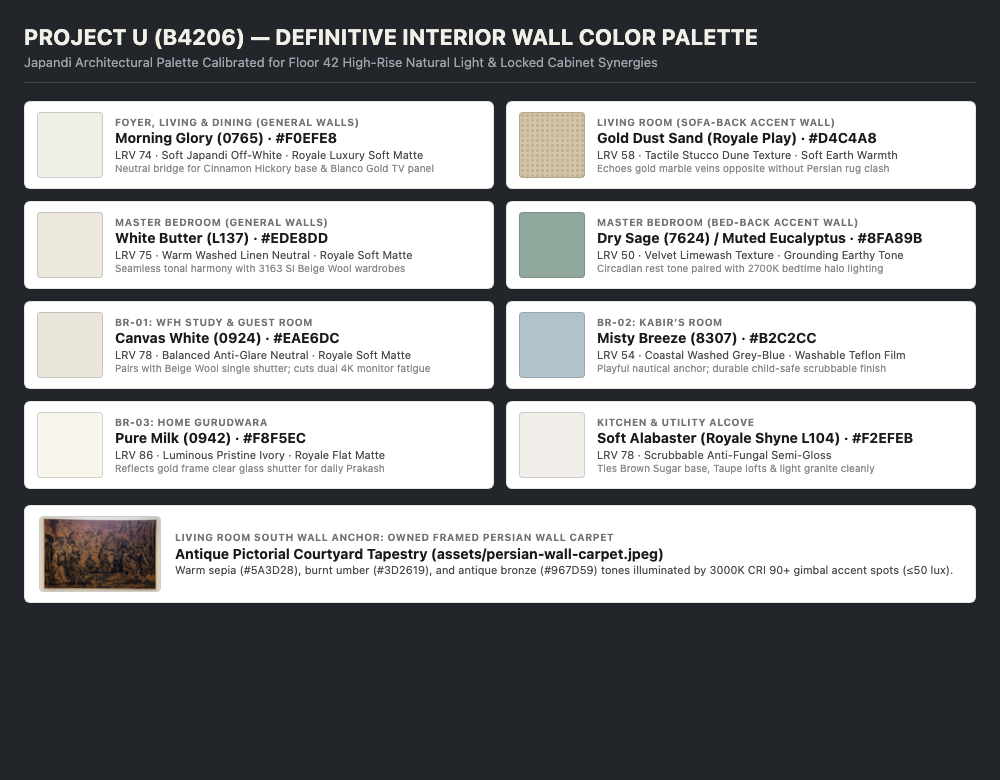
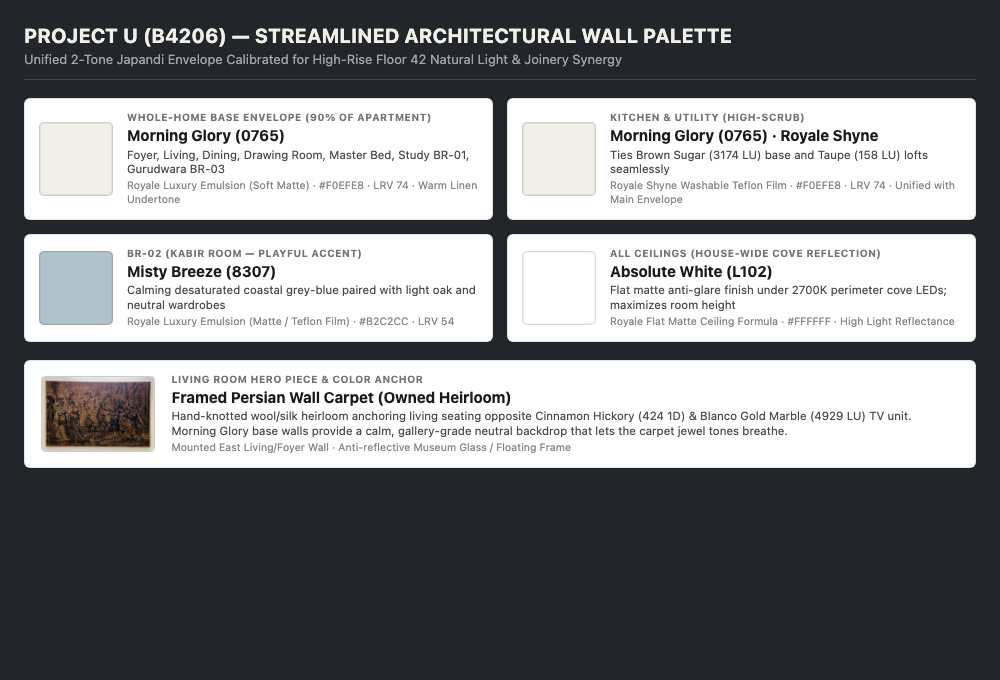
sync: update Project U notes (2026-10-16 23:58:57)

diff --git a/content/u-setup-interiors.md b/content/u-setup-interiors.md
@@ -55,16 +55,9 @@ updated: 2026-10-16
 
 | Room / Zone | Recommended Tone & Code (Asian Paints) | Swatch (Color) | Interior Designer Rationale & Cabinet Synergy |
 | :--- | :--- | :--- | :--- |
-| **Foyer, Living & Dining** | **Morning Glory (0765)** (`#F0EFE8`, LRV 74) | <img src="assets/swatches/swatch-living-dining.png" alt="Morning Glory" width="140"> | Japandi warm neutral off-white. Bridges `424 1D Cinnamon Hickory` base unit and `4929 LU Blanco Gold Marble` TV panel, providing a calm canvas for the owned Persian carpet. |
-| **Living Sofa-Back Accent** | **Gold Dust Sand Texture (Royale Play)** (`#D4C4A8`, LRV 58) | <img src="assets/swatches/swatch-living-sofa-texture.png" alt="Gold Dust Sand" width="140"> | Tactile Dune plaster echoing gold veining of `4929 LU` marble panel across room without clashing with Persian rug. |
-| **Drawing Room (East Wall)** | **Organic Greige / Limewash (8274)** (`#D6CEBE`, LRV 62) | <img src="assets/swatches/swatch-drawing-east.png" alt="Organic Greige" width="140"> | Breathable textured matte plaster/limewash backdrop for art; grounds the seating area opposite the dark wood fluting. |
-| **Drawing Room (West Wall)** | **Charcoal Shadow (8286)** (`#4A4F50`, LRV 12) | <img src="assets/swatches/swatch-drawing-west.png" alt="Charcoal Shadow" width="140"> | Low-reflectance accent panel behind vertical timber slats; absorbs ambient spill around 65" OLED display. |
-| **Master Bedroom (General)** | **White Butter (L137)** (`#EDE8DD`, LRV 75) | <img src="assets/swatches/swatch-master-bed-walls.png" alt="White Butter" width="140"> | Washed linen tone harmonizing tonally with `3163 SI Beige Wool` wardrobes and dresser. |
-| **Master Bedroom (Bed-Back)** | **Dry Sage (7624) / Muted Eucalyptus** (`#8FA89B`, LRV 50) | <img src="assets/swatches/swatch-master-bed.png" alt="Dry Sage" width="140"> | Bed-back texture paint. Earthy grounding tone for circadian rest under 2700K bedtime lighting. |
-| **BR-01 (Study / Guest)** | **Canvas White (0924)** (`#EAE6DC`, LRV 78) | <img src="assets/swatches/swatch-study-br01.png" alt="Canvas White" width="140"> | Balanced anti-glare neutral pairing with `3163 SI Beige Wool` single shutter; cuts dual 4K monitor fatigue. |
-| **BR-02 (Kabir's Room)** | **Misty Breeze (8307)** (`#B2C2CC`, LRV 54) | <img src="assets/swatches/swatch-kabir-br02.png" alt="Misty Breeze" width="140"> | Desaturated coastal grey-blue. Playful nautical anchor paired with light oak; washable Teflon film. |
-| **BR-03 (Home Gurudwara)** | **Pure Milk (0942)** (`#F8F5EC`, LRV 86) | <img src="assets/swatches/swatch-gurudwara-br03.png" alt="Pure Milk" width="140"> | Luminous pristine ivory reflecting gold-framed clear glass shutter for daily Prakash. |
-| **Kitchen & Utility** | **Soft Alabaster (Royale Shyne L104)** (`#F2EFEB`, LRV 78) | <img src="assets/swatches/swatch-kitchen-utility.png" alt="Soft Alabaster" width="140"> | Scrubbable finish tying `3174 LU Brown Sugar` base, `158 LU Taupe` lofts, and light granite cleanly. |
+| **Whole-Home Base Envelope**<br>(Foyer, Living, Dining, Drawing, Master Bed, Study BR-01, Gurudwara BR-03) | **Morning Glory (0765)**<br>(`#F0EFE8`, LRV 74) | <img src="assets/swatches/swatch-living-dining.png" alt="Morning Glory" width="140"> | Primary Japandi neutral canvas. Unifies all social and private spaces, harmonizes with `424 Cinnamon Hickory`, `3163 Beige Wool`, and Persian carpet. Replaces dark accents with continuous light reflection. |
+| **Kitchen & Utility** | **Morning Glory (0765)**<br>(`#F0EFE8`, LRV 74) · Royale Shyne | <img src="assets/swatches/swatch-living-dining.png" alt="Morning Glory" width="140"> | Identical color formula in high-scrub formulation. Cleanly links `3174 Brown Sugar` base and `158 Taupe` lofts without color breaks. |
+| **BR-02 (Kabir's Room)** | **Misty Breeze (8307)**<br>(`#B2C2CC`, LRV 54) | <img src="assets/swatches/swatch-kabir-br02.png" alt="Misty Breeze" width="140"> | Light, desaturated coastal grey-blue. Dedicated playful accent paired with light oak joinery; washable Teflon emulsion. |
 
 ---
 

diff --git a/content/u-setup-networking.md b/content/u-setup-networking.md
@@ -49,9 +49,10 @@ updated: 2026-10-14
   * Aqara Hub M2 handles offline Zigbee child devices independently of Wi-Fi router reboots.
 
 #### 3. Site Touchpoints & Pre-Boarding Protocol
+* **Builder In-Wall Cabling & Panasonic Plates:** Unit B4206 features pre-installed **Panasonic Vision / Roma modular plates** with dual RJ-45 and coaxial TV ports in every room. All drops home-run to the central telecom enclosure near the main distribution board.
 * **Conduit Separation:** Ensure Cat6 network conduit maintains $\ge 200\text{ mm}$ physical separation from high-voltage 230V AC electrical conduits to eliminate EMI induced packet drops.
 * **Fire Code Clearance:** Ceiling APs must sit $\ge 500\text{ mm}$ away from fire sprinkler heads and HVAC return grilles.
-* **Cable Verification:** Verify printed "Solid Bare Copper 23 AWG" on cable sheath prior to false ceiling closure.
+* **8-Pin Gigabit Verification:** Builders often punch only 4 of the 8 pins (limiting speeds to 100 Mbps). Test each room jack with an 8-LED network tester to confirm 1000 Mbps Gigabit continuity. Verify cable jacket text reads pure copper Cat6.
 
 **Skip List:** Wi-Fi 6E/7 consumer mesh pods (Deco/Orbi without Ethernet backhaul), powerline adapters, 19" enclosed server racks in utility.
 
